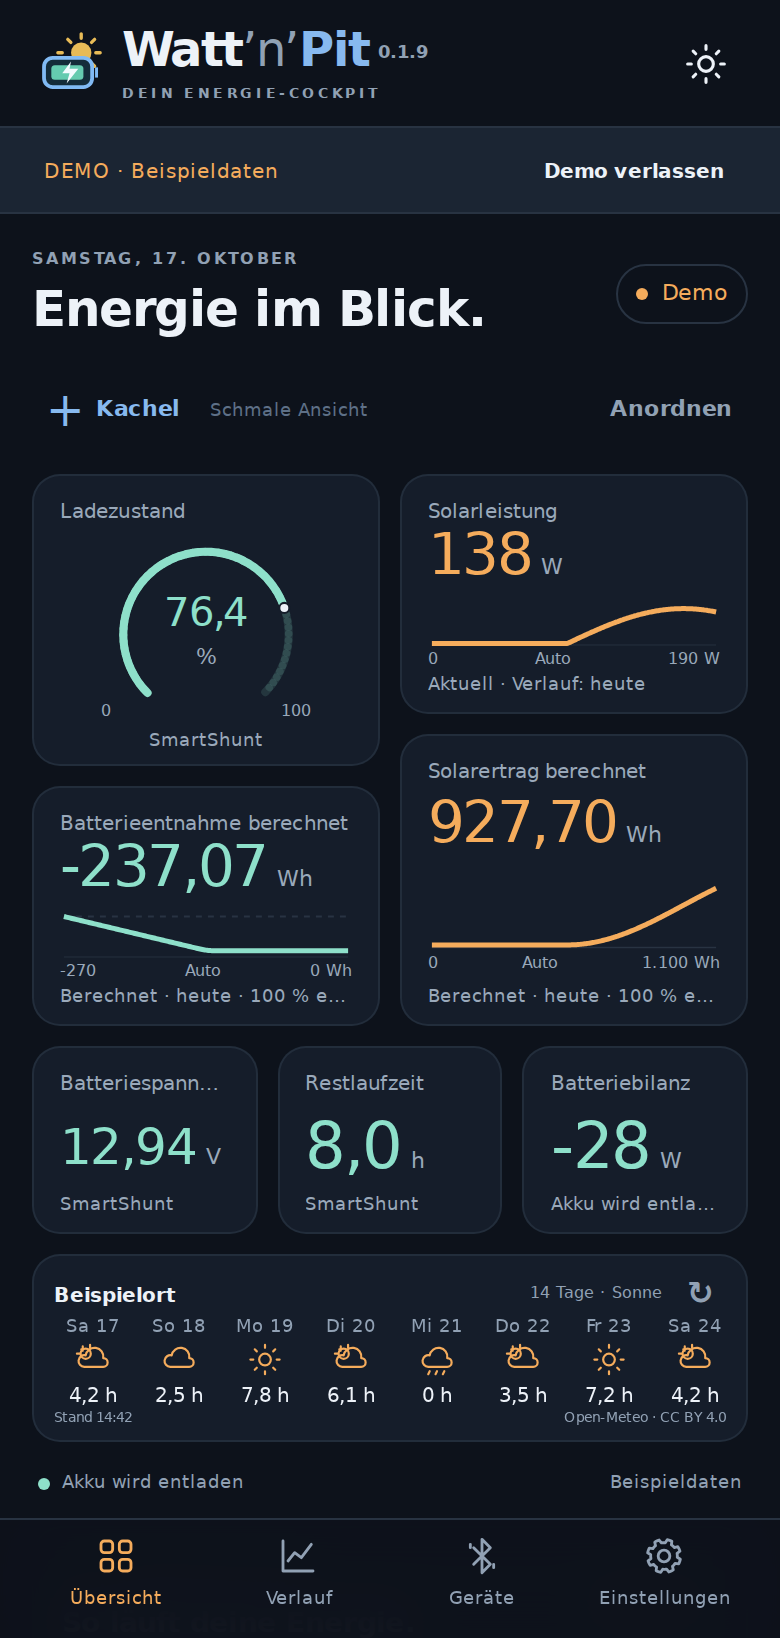
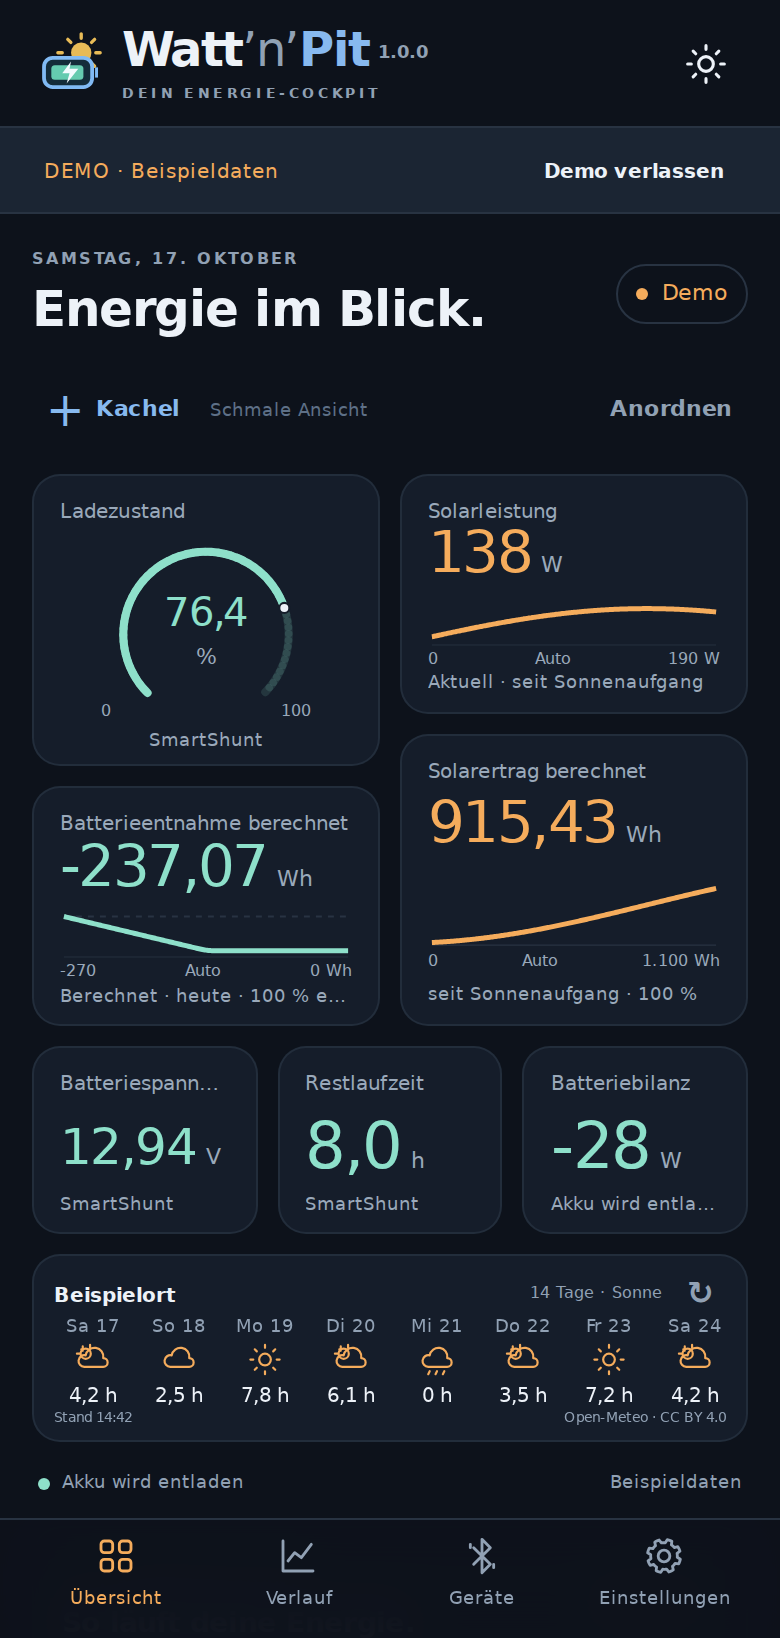
Release Watt’n’Pit 1.0.0 with confirmed default overview and sunrise charts

diff --git a/app/src/main/assets/index.html b/app/src/main/assets/index.html
@@ -11,7 +11,7 @@
 </head>
 <body>
 <header class="topbar">
-  <div class="brand"><img class="brandmark" src="brand.svg" alt="Sonne und Batterie"><div><div class="wordmark">Watt<span class="wordmark-n">’n’</span><span>Pit</span><small>0.1.9</small></div><div class="brandline">DEIN ENERGIE-COCKPIT</div></div></div>
+  <div class="brand"><img class="brandmark" src="brand.svg" alt="Sonne und Batterie"><div><div class="wordmark">Watt<span class="wordmark-n">’n’</span><span>Pit</span><small>1.0.0</small></div><div class="brandline">DEIN ENERGIE-COCKPIT</div></div></div>
   <button class="iconbutton" id="themeToggle" aria-label="Farbschema wechseln"></button>
 </header>
 <div id="demoBar" class="demo-bar" hidden><span>DEMO · Beispieldaten</span><button id="exitDemo">Demo verlassen</button></div>
@@ -67,7 +67,7 @@
   <article class="card settings-card"><div class="section-heading"><div><h2>Deine Solaranlage</h2><p id="equipmentTotal" class="muted"></p></div><button id="editEquipment" class="textbutton">Bearbeiten</button></div><div id="equipmentGroups"></div><p class="muted equipment-disclaimer">Hier beschreibst du deine Module und Regler. Die Angaben ändern keine Geräteparameter. Livewerte kommen weiterhin vom jeweiligen Messgerät.</p></article>
   <article class="card settings-card"><h2>Einstellungen sichern</h2><p class="muted">Kacheln samt Anordnung, Farben, Zeiträume, Wetterort und Solaranlage als Datei sichern oder wieder einlesen. Ohne Messdaten, Geräteadressen, PINs und Verbindungsschlüssel.</p><div class="row"><button class="quiet" id="exportConfiguration">Einstellungen exportieren</button><button class="quiet" id="importConfiguration">Einstellungen importieren</button></div></article>
   <article class="card settings-card"><h2>Lokal. Ohne Konto.</h2><p class="muted">Watt’n’Pit empfängt deine Geräte direkt. Messwerte und Geräteschlüssel bleiben auf diesem Telefon. Kein Konto, keine Werbung. Nur die optionale Ortssuche und Wettervorschau nutzen Internet: Suchtext bzw. Ortskoordinaten gehen an Open-Meteo. Energiedaten und Geräteschlüssel werden nicht übertragen.</p><div class="row"><button class="quiet" id="settingsImport">CSV importieren</button><button class="quiet" id="settingsExport">CSV exportieren</button></div></article>
-  <div class="about"><img class="brandmark" src="brand.svg" alt="Sonne und Batterie"><strong>Watt’n’Pit 0.1.9</strong><p>Dein Energie-Cockpit.</p><button class="textbutton" id="settingsDemo">Demo ansehen</button></div>
+  <div class="about"><img class="brandmark" src="brand.svg" alt="Sonne und Batterie"><strong>Watt’n’Pit 1.0.0</strong><p>Dein Energie-Cockpit.</p><button class="textbutton" id="settingsDemo">Demo ansehen</button></div>
 </section>
 </main>
 <nav class="bottom-nav" aria-label="Hauptnavigation"><button data-page="overview" class="active"><span id="navOverview"></span>Übersicht</button><button data-page="history"><span id="navHistory"></span>Verlauf</button><button data-page="devices"><span id="navDevices"></span>Geräte</button><button data-page="settings"><span id="navSettings"></span>Einstellungen</button></nav>

diff --git a/app/src/main/assets/dashboard-core.js b/app/src/main/assets/dashboard-core.js
@@ -114,12 +114,16 @@
   }
   function defaults() {
     const ids=['soc','solar','dischargeEnergy','solarEnergy','voltage','remaining','power','weather'];
-    const layout=[[0,0,6,6],[6,0,6,5],[0,6,6,5],[6,5,6,6],[0,11,4,4],[4,11,4,4],[8,11,4,4],[0,15,12,4]];
+    const layouts={
+      compact:[[0,0,6,6],[6,0,6,5],[0,6,6,5],[6,5,6,6],[0,11,4,4],[4,11,4,4],[8,11,4,4],[0,15,12,4]],
+      wide:[[0,0,4,6],[4,3,4,3],[0,9,4,6],[8,0,4,3],[0,6,6,3],[4,0,4,3],[8,3,4,3],[0,15,12,4]]
+    };
     return {version:1,dischargeSignVersion:1,blockOrder:[...BLOCK_ORDER],tiles:ids.map((id,i)=>{
-      const t=tile(id,'default-'+id),[x,y,w,h]=layout[i];
-      for(const profile of ['compact','wide'])t.layouts[profile]={x,y,w,h};
-      if(id==='soc')t.fontSize=20;
-      if(id==='solar'){t.type='chart';t.scaleMode='auto';t.valueMode='live';t.period.mode='today';}
+      const t=tile(id,'default-'+id);
+      for(const profile of ['compact','wide']){const [x,y,w,h]=layouts[profile][i];t.layouts[profile]={x,y,w,h};}
+      if(id==='soc'){t.fontSize=20;t.scaleMode='auto';}
+      if(id==='solar'){t.type='chart';t.scaleMode='auto';t.valueMode='live';t.period.mode='sunrise';}
+      if(id==='solarEnergy')t.period.mode='sunrise';
       return t;
     })};
   }

diff --git a/app/src/main/java/de/wattpit/app/Repository.java b/app/src/main/java/de/wattpit/app/Repository.java
@@ -40,7 +40,7 @@ final class Repository {
         JSONObject all=new JSONObject(prefs.getString("archiveDiagnostics","{}"));all.put(kind,result);prefs.edit().putString("archiveDiagnostics",all.toString()).apply();
     }
     synchronized String diagnosticText()throws JSONException{
-        JSONObject all=new JSONObject(prefs.getString("archiveDiagnostics","{}"));StringBuilder text=new StringBuilder("Watt’n’Pit 0.1.9 · Archivdiagnose\n");
+        JSONObject all=new JSONObject(prefs.getString("archiveDiagnostics","{}"));StringBuilder text=new StringBuilder("Watt’n’Pit 1.0.0 · Archivdiagnose\n");
         for(String kind:new String[]{"solar","shunt"}){
             JSONObject d=all.optJSONObject(kind);if(d==null)continue;text.append(kind.equals("solar")?"\nSolarladeregler\n":"\nBatteriewächter\n");
             text.append(d.optString("result")).append('\n');JSONArray lines=d.optJSONArray("steps");if(lines!=null)for(int i=0;i<lines.length();i++)text.append("· ").append(lines.getString(i)).append('\n');

diff --git a/README.md b/README.md
@@ -2,21 +2,23 @@
 
 **Dein Energie-Cockpit.** Solar, Akku und Batteriebilanz auf einen Blick – direkt über Bluetooth, mit lokaler Aufzeichnung und frei gestaltbarer Übersicht.
 
-**[Android-APK 0.1.9 herunterladen](https://github.com/Tim-Gurke/Watt-n-Pit/releases/download/v0.1.9/Watt-n-Pit-v0.1.9.apk)** · [Release](https://github.com/Tim-Gurke/Watt-n-Pit/releases/latest) · **[Anleitung mit Screenshots](docs/ANLEITUNG.md)** · [CSV-Import](docs/CSV-IMPORT.md)
+**[Android-APK 1.0.0 herunterladen](https://github.com/Tim-Gurke/Watt-n-Pit/releases/download/v1.0.0/Watt-n-Pit-v1.0.0.apk)** · [Release](https://github.com/Tim-Gurke/Watt-n-Pit/releases/latest) · **[Anleitung mit Screenshots](docs/ANLEITUNG.md)** · [CSV-Import](docs/CSV-IMPORT.md)
 
 Android 8 oder neuer · Kein Konto · Keine Werbung · Unabhängiges Projekt, kein offizielles Victron-Produkt.
 
 ## So sieht es aus
 
-Die Screenshots zeigen die App-Oberfläche von **0.1.9 mit frei erfundenen Beispieldaten**. Wetterort und Gerätekennungen sind neutral; private Messungen und Verbindungscodes werden nicht veröffentlicht.
+Die Screenshots zeigen die App-Oberfläche von **1.0.0 mit frei erfundenen Beispieldaten**. Wetterort und Gerätekennungen sind neutral; private Messungen und Verbindungscodes werden nicht veröffentlicht.
 
 | Dunkles Design | Helles Design |
 |---|---|
-| ![Watt’n’Pit 0.1.9: Übersicht mit Solar-, Akku- und Wetterkacheln, dunkel](docs/images/overview-dark.png) | ![Dieselbe Übersicht im hellen Design](docs/images/overview-light.png) |
+| ![Watt’n’Pit 1.0.0: Übersicht mit Solar-, Akku- und Wetterkacheln, dunkel](docs/images/overview-dark.png) | ![Dieselbe Übersicht im hellen Design](docs/images/overview-light.png) |
 
-*Solarleistung mit automatischer Skala, berechneter Ertrag, negative Batterieentnahme und die flache Wetterkachel liegen im selben frei anpassbaren Raster.*
+*Die Standardübersicht: Ladezustand und aktuelle Solarleistung oben, negative Batterieentnahme und berechneter Solarertrag darunter, anschließend Batteriespannung, Restlaufzeit in Stunden und Batteriebilanz. Die flache Wetterkachel schließt den Kachelblock ab.*
 
-## Das kann 0.1.9
+Solarleistung und berechneter Solarertrag beginnen standardmäßig **seit Sonnenaufgang**; die Batterieentnahme zählt **ab Tagesbeginn**. Alle drei Verlaufskacheln verwenden automatische Skalen. Neue Installationen und „Standardübersicht wiederherstellen“ erhalten diese Anordnung; beim Update bleiben gespeicherte eigene Übersichten erhalten.
+
+## Das kann 1.0.0
 
 - **Direkter Empfang:** SmartSolar und SmartShunt liefern Livewerte über die Bluetooth-Sofortanzeige. Messdaten und Geräteschlüssel bleiben auf dem Telefon.
 - **Archive automatisch ergänzen:** Beim App-Start liest Watt’n’Pit vorhandene Gerätearchive nacheinander ein. Vorhandene Werte werden abgeglichen, Lücken ergänzt und Archivpunkte nicht doppelt gespeichert.
@@ -33,7 +35,7 @@ Die Screenshots zeigen die App-Oberfläche von **0.1.9 mit frei erfundenen Beisp
 
 ## In fünf Schritten starten
 
-1. Die [APK herunterladen](https://github.com/Tim-Gurke/Watt-n-Pit/releases/download/v0.1.9/Watt-n-Pit-v0.1.9.apk) und installieren. Für Updates die neue APK über die bestehende Installation installieren.
+1. Die [APK herunterladen](https://github.com/Tim-Gurke/Watt-n-Pit/releases/download/v1.0.0/Watt-n-Pit-v1.0.0.apk) und installieren. Für Updates die neue APK über die bestehende Installation installieren.
 2. In **VictronConnect → Einstellungen → ⋮ → Produktinfo** die **Sofortanzeige über Bluetooth** des jeweiligen Geräts einschalten.
 3. Unter **Sofortanzeige-Details → Anzeigen** die Geräteadresse und den **32-stelligen Verschlüsselungsschlüssel** übernehmen.
 4. In Watt’n’Pit unter **Geräte → Suche starten** das Gerät einrichten oder mit **+** manuell hinzufügen. Jeder Geräteschlüssel gehört zu genau einem Gerät.
@@ -63,11 +65,11 @@ Nur die optionale Ortssuche und Wettervorschau nutzen Internet: Suchtext bzw. Or
 
 ## Kompatibilität und Stand
 
-SmartSolar 75/15 mit Bluetooth und SmartShunt 300 A wurden an realer Hardware erprobt. Der vollständige Archivimport und die Verlaufsanzeige sind seit 0.1.5 bestätigt; Übersicht und kompakte Wetterkachel von 0.1.9 wurden ebenfalls am Android-Gerät bestätigt. Weitere Victron-Geräte sind **nicht pauschal als kompatibel bestätigt**. In dieser Version lässt sich je ein SmartSolar und ein SmartShunt einrichten.
+SmartSolar 75/15 mit Bluetooth und SmartShunt 300 A wurden an realer Hardware erprobt. Der vollständige Archivimport und die Verlaufsanzeige sind seit 0.1.5 bestätigt; Übersicht und kompakte Wetterkachel wurden bis 0.1.9 ebenfalls am Android-Gerät bestätigt. Die neuen Standardzeiträume und beide Anordnungen von 1.0.0 werden zusätzlich automatisiert geprüft. Weitere Victron-Geräte sind **nicht pauschal als kompatibel bestätigt**. In dieser Version lässt sich je ein SmartSolar und ein SmartShunt einrichten.
 
 Die App ändert keine Ladeparameter und löscht keine Gerätetrends. Temperatur und Zusatzspannung benötigen einen entsprechend eingerichteten Geräteeingang. Eine lang laufende Aufzeichnung kann durch Android-Energiespareinstellungen begrenzt werden.
 
-Automatisierte Prüfung: **59 JVM-Tests, 39 Node-Tests**, Android-Lint und Android-Build sowie Browserprüfungen für Bedienung, Speicherung, Importabgleich, Sonnenaufgang, Skalen und Farbdesigns. Die Android-Dateiauswahl für Einstellungssicherungen ist zusätzlich am Gerät zu bestätigen. [Versionshinweise](docs/releases/0.1.9.md) · [Technische Grundlage](docs/ARCHITECTURE.md)
+Automatisierte Prüfung: **59 JVM-Tests, 39 Node-Tests**, Android-Lint und Android-Build sowie Browserprüfungen für Bedienung, Speicherung, Importabgleich, Sonnenaufgang, Skalen und Farbdesigns. Die Android-Dateiauswahl für Einstellungssicherungen ist zusätzlich am Gerät zu bestätigen. [Versionshinweise](docs/releases/1.0.0.md) · [Technische Grundlage](docs/ARCHITECTURE.md)
 
 ## Entwicklung
 

diff --git a/docs/releases/1.0.0.md b/docs/releases/1.0.0.md
@@ -1,0 +1,41 @@
+# Watt’n’Pit 1.0.0 – Dein Energie-Cockpit
+
+Die erste reguläre Veröffentlichung von Watt’n’Pit: Solarleistung, Akku und Batteriebilanz direkt über Bluetooth, mit lokaler Aufzeichnung, automatischem Archivimport und frei gestaltbarer Übersicht. Android 8 oder neuer; kein Konto und keine Werbung.
+
+## Die neue Standardübersicht
+
+- Ladezustand als Rundinstrument links, aktuelle Solarleistung mit Verlauf rechts.
+- Negative Batterieentnahme links, berechneter Solarertrag rechts.
+- Batteriespannung, Restlaufzeit in Stunden und Batteriebilanz als Dreierreihe.
+- Flache Wetterkachel über die ganze Breite: 14 Tage, je ein Symbol und erwartete Sonnenstunden, seitlich wischbar.
+- Solarleistung und Solarertrag beginnen standardmäßig seit Sonnenaufgang; die Batterieentnahme zählt ab Tagesbeginn. Die Verlaufskacheln skalieren automatisch nach den bisherigen Messwerten.
+- Schmale und breite Bildschirme haben eigene Standardanordnungen. Danach folgen Verlauf und Start/Pause; die drei Blöcke bleiben umsortierbar.
+
+Neue Installationen verwenden die neue Übersicht. **Beim Update bleibt deine eigene Anordnung erhalten.** Über **Einstellungen → Standardübersicht wiederherstellen** lässt sich der neue Standard übernehmen. Geräte und Messdaten bleiben dabei gespeichert. Ohne eingerichteten Wetterort bleibt die Wetterkachel ausgeblendet; Sonnenaufgangszeiträume verwenden sichtbar „heute (Ersatz)“.
+
+| Dunkle Übersicht | Helle Übersicht |
+|---|---|
+| ![Standardübersicht mit Sonnenaufgang und negativer Batterieentnahme](https://raw.githubusercontent.com/Tim-Gurke/Watt-n-Pit/v1.0.0/docs/images/overview-dark.png) | ![Dieselbe Standardübersicht im hellen Design](https://raw.githubusercontent.com/Tim-Gurke/Watt-n-Pit/v1.0.0/docs/images/overview-light.png) |
+
+*Die Bilder zeigen die ausgelieferte Oberfläche mit frei erfundenen Beispieldaten und neutralem Wetterort. Persönliche Orte, Gerätekennungen und Verbindungscodes sind nicht enthalten.*
+
+## Was sonst dazugehört
+
+- SmartSolar- und SmartShunt-Livewerte über Bluetooth. Die Gerätearchive werden beim App-Start nacheinander ergänzt und mit vorhandenen Werten abgeglichen; gleiche Archivpunkte werden nicht doppelt gespeichert.
+- Kacheln frei anordnen, vergrößern, überlappen und als Zahl, Rundinstrument oder Verlauf gestalten. Einheit, Zeitraum, Skala, Farbe, Schrift und Deckkraft sind einstellbar.
+- Berechneter Solarertrag und Batterieentnahme in Wh oder kWh mit sichtbarer zeitlicher Abdeckung. Batterieentnahme beschreibt die Entladung des Akkus, nicht den Gesamtverbrauch einschließlich direkt genutzten Solarstroms.
+- Solarausrüstung mit Modulanzahl, Nennleistung, Montage, Regler und Messwertquelle anpassen. Sechs Farbdesigns, jeweils hell und dunkel.
+- Einstellungen und Anordnungen als JSON sichern und mit Vorschau importieren. Geräteadressen, PINs, Schlüssel und Messdaten sind nicht Teil dieser Sicherung; ein eingestellter Wetterort ist enthalten. Messdaten lassen sich getrennt als CSV exportieren und importieren.
+- Energiedaten und Geräteschlüssel bleiben auf dem Telefon. Nur die optionale Ortssuche und Wettervorschau verwenden Open-Meteo.
+
+![Solarertrag und negative Batterieentnahme im berechneten Energieverlauf](https://raw.githubusercontent.com/Tim-Gurke/Watt-n-Pit/v1.0.0/docs/images/energy-history.png)
+
+## Kompatibilität und Prüfung
+
+An realer Hardware erprobt: **SmartSolar 75/15 mit Bluetooth und SmartShunt 300 A**. Je ein Solarladeregler und ein Batteriewächter können eingerichtet werden. Weitere Victron-Geräte sind nicht pauschal als kompatibel bestätigt. Die App ändert keine Ladeparameter.
+
+Geprüft mit 59 JVM-Tests, 39 Node-Tests, Android-Lint und Release-Build sowie Browserprüfungen der Standardansicht, beider Layouts, Sonnenaufgangszeiträume und bestehender Konfigurationen. Die Android-Dateiauswahl für Einstellungssicherungen ist zusätzlich am Gerät zu bestätigen.
+
+**[Anleitung mit Screenshots](https://github.com/Tim-Gurke/Watt-n-Pit/blob/v1.0.0/docs/ANLEITUNG.md)** · **[APK 1.0.0 herunterladen](https://github.com/Tim-Gurke/Watt-n-Pit/releases/download/v1.0.0/Watt-n-Pit-v1.0.0.apk)**
+
+Für ein Update die neue APK über die bestehende Installation installieren. Die App verwendet weiterhin denselben Signaturschlüssel.

diff --git a/docs/ANLEITUNG.md b/docs/ANLEITUNG.md
@@ -1,6 +1,6 @@
 # Watt’n’Pit bedienen
 
-Für Version **0.1.9** · [APK herunterladen](https://github.com/Tim-Gurke/Watt-n-Pit/releases/download/v0.1.9/Watt-n-Pit-v0.1.9.apk) · [Zur Projektübersicht](../README.md)
+Für Version **1.0.0** · [APK herunterladen](https://github.com/Tim-Gurke/Watt-n-Pit/releases/download/v1.0.0/Watt-n-Pit-v1.0.0.apk) · [Zur Projektübersicht](../README.md)
 
 Watt’n’Pit zeigt Solarleistung, Batteriezustand und gespeicherte Verläufe direkt auf deinem Android-Telefon. Die folgenden Screenshots stammen aus der App-Oberfläche mit **frei erfundenen Beispieldaten**. Wetterort und Gerätekennungen sind Beispiele; es sind keine privaten Verbindungsdaten enthalten. Eine sichtbare Demo liest keine Bluetooth-Geräte aus.
 
@@ -39,6 +39,10 @@ Falls nichts ankommt: Bluetooth und Reichweite prüfen, VictronConnect vom Gerä
 
 *Sieben Messkacheln und die kompakte Wetterkachel bilden den Standard. Werte, Farben, Größe und Position lassen sich anpassen.*
 
+Auf schmalen Bildschirmen stehen Ladezustand und Solarleistung oben. Darunter folgen negative Batterieentnahme und berechneter Solarertrag; die Dreierreihe zeigt Batteriespannung, Restlaufzeit in Stunden und Batteriebilanz. Das Wetter liegt flach über die gesamte Breite. Anschließend folgen Verlauf und Start/Pause.
+
+Solarleistung und berechneter Solarertrag zeigen im Standard die Zeit **seit Sonnenaufgang**. Die Batterieentnahme bezieht sich auf **heute ab Mitternacht**. Die drei Verlaufskacheln passen ihre Skalen automatisch an die vorhandenen Werte an. Die breite Ansicht besitzt eine eigene gespeicherte Anordnung.
+
 **+ Kachel** öffnet die Auswahl. Neue Kacheln erscheinen am Ende des Rasters. Eine Messkachel antippen, um Beschriftung, Einheit, Darstellung und Zeitraum zu ändern. Als Darstellung stehen je nach Messgröße Zahl, Rundinstrument oder Verlauf zur Wahl.
 
 Unter **Anordnen** die Kacheln ziehen und an der unteren rechten Ecke vergrößern. Überlappungen sind erlaubt. Andere Kacheln behalten ihre Position. **Fertig** beendet die Anordnung. Schmale und breite Ansichten speichern ihre Positionen und Größen getrennt.
@@ -47,7 +51,7 @@ Unter **Anordnen** die Kacheln ziehen und an der unteren rechten Ecke vergröße
 
 *Die Reihenfolge von „Kacheln mit Wetter“, „Verlauf“ und „Start / Pause“ lässt sich über die Pfeile ändern. Innerhalb des Kachelblocks wird direkt gezogen.*
 
-**Einstellungen → Standardübersicht wiederherstellen** setzt die Kachelanordnung zurück. Eigene Messdaten und eingerichtete Geräte bleiben dabei erhalten.
+**Einstellungen → Standardübersicht wiederherstellen** stellt die neue Standardansicht einschließlich der Kachelzeiträume für schmale und breite Bildschirme her. Beim normalen App-Update bleiben vorhandene eigene Übersichten erhalten. Messdaten und eingerichtete Geräte werden durch das Wiederherstellen der Standardübersicht nicht verändert.
 
 ## 4. Aktuell, Zeitraum und Skala wählen
 
@@ -103,7 +107,7 @@ Die Wetterkachel liegt im selben Raster wie die Messkacheln. **Anordnen** macht 
 
 *Einstellungen → Deine Solaranlage → Bearbeiten: Modulgruppen beschreiben und ihre Messwertquelle zuordnen. Die gezeigten Angaben sind frei erfunden.*
 
-Pro Solarkreis lassen sich Bezeichnung, Modulanzahl, Wp pro Modul, Montage und Regler eintragen. Als Messwertquelle stehen Bluetooth-Solarladeregler, Batteriebilanz des Shunts oder kein eigener Messwert zur Wahl. Die Nennleistung beschreibt deine Hardware; sie ersetzt keine Messung und ändert keine Geräteparameter. In 0.1.9 kann je ein SmartSolar und ein SmartShunt eingerichtet werden.
+Pro Solarkreis lassen sich Bezeichnung, Modulanzahl, Wp pro Modul, Montage und Regler eintragen. Als Messwertquelle stehen Bluetooth-Solarladeregler, Batteriebilanz des Shunts oder kein eigener Messwert zur Wahl. Die Nennleistung beschreibt deine Hardware; sie ersetzt keine Messung und ändert keine Geräteparameter. In 1.0.0 kann je ein SmartSolar und ein SmartShunt eingerichtet werden.
 
 ## 8. Einstellungen und Messdaten sichern
 
